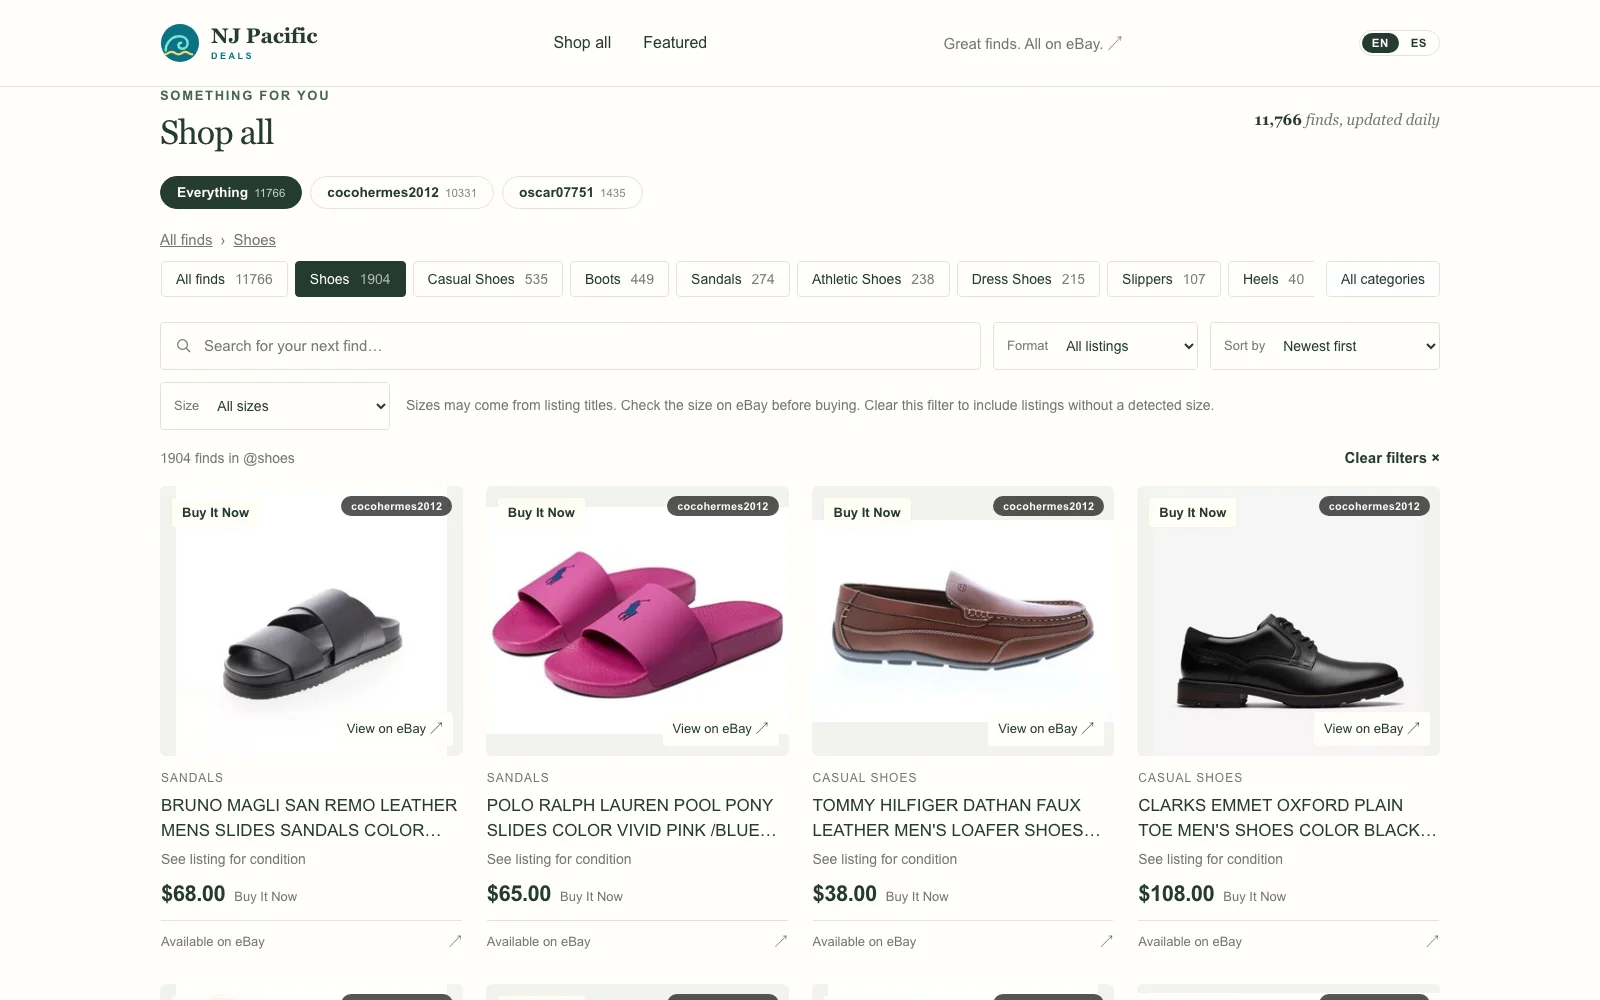
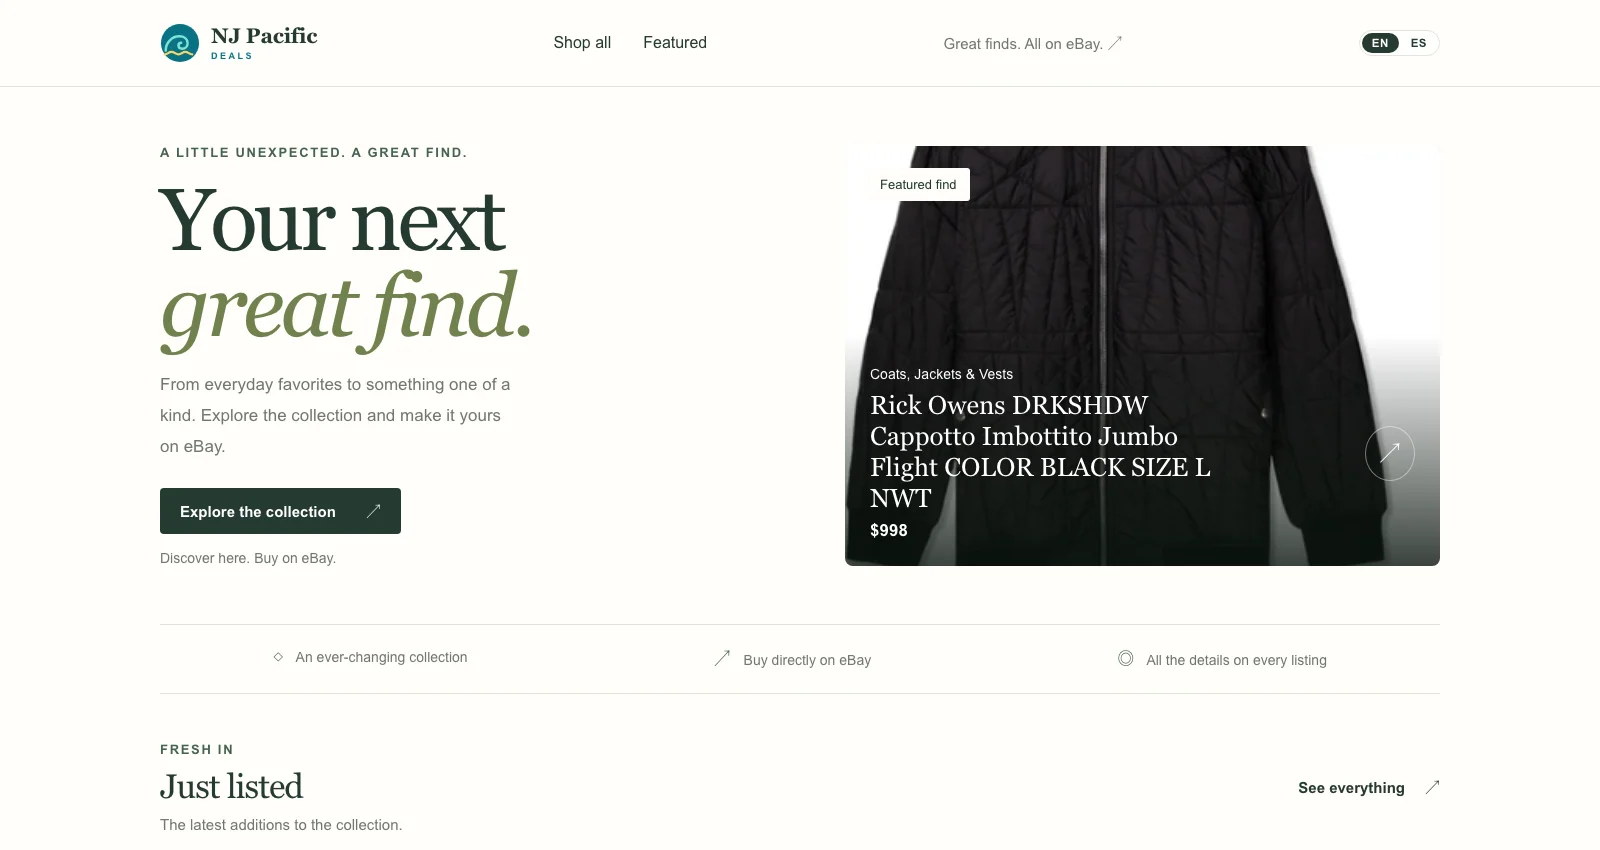
Use the storefront home page for the NJ Pacific Deals card
The catalog screenshot needed a category filter to read well, and its
listing titles were illegible at card size. The home page carries the
brand and the featured find in type large enough to survive the card,
so it says more with less explaining.

Image is 1600x850 rather than 1600x1000: the viewport was cut above the
product row so the capture ends on the Just listed heading. Alt text and
the width/height attributes follow the new capture.

Verified at 1440px, 834px and 390px: no horizontal overflow, image
loads, anchors resolve, disclosure opens, no console errors.

diff --git a/index.html b/index.html
@@ -266,11 +266,11 @@
           <div class="project-art storefront-art">
             <img
               src="./assets/img/websites/nj-pacific-deals.webp"
-              alt="NJ Pacific Deals shop screen filtered to Shoes, showing seller tabs, category and size filters, search, sort controls, and a grid of listings with prices and links out to eBay."
+              alt="NJ Pacific Deals home page: the headline &quot;Your next great find.&quot; with an Explore the collection button, beside a featured find card showing a Rick Owens coat listed at $998, above the start of the Just listed section."
               loading="lazy"
               decoding="async"
               width="1600"
-              height="1000"
+              height="850"
             />
           </div>
           <div class="project-body">

diff --git a/SCREENSHOT_HANDOFF.md b/SCREENSHOT_HANDOFF.md
@@ -11,7 +11,7 @@ The portfolio remains a static HTML/CSS site hosted on GitHub Pages. No React mi
 | Workout Logger Universal | Done — real app screenshots     | `assets/img/websites/workout-logger.webp` |
 | NJ Pacific Deals (`storefront`) | Done — live-site screenshot | `assets/img/websites/nj-pacific-deals.webp` |
 
-The Mastadon, Stock Lab, and Workout Logger Universal screenshots come from the applications actually running against seeded demo data. Workout Logger Universal is a composed side-by-side: the iOS (SwiftUI) session screen captured in the iOS Simulator and the Android (Jetpack Compose) home screen captured on an emulator, both from the app's own DEBUG sample workouts, laid out on the card's mat colour at 1600x1200 so the card keeps the same row height as its neighbour. The NJ Pacific Deals screenshot is the deployed storefront at https://njpacificdeals.com/, captured at 1600x1000 with Playwright; its listings are real and public on eBay, and the shop view is filtered to Shoes so the grid reads well at card size. No credentials, account identifiers, customer details, or private financial information appear in any of them. The Stock Lab market history is synthetic demo data generated for the capture; the anomalies, detector output, and chart were produced by Stock Lab's own scanner from that data, not hand-drawn.
+The Mastadon, Stock Lab, and Workout Logger Universal screenshots come from the applications actually running against seeded demo data. Workout Logger Universal is a composed side-by-side: the iOS (SwiftUI) session screen captured in the iOS Simulator and the Android (Jetpack Compose) home screen captured on an emulator, both from the app's own DEBUG sample workouts, laid out on the card's mat colour at 1600x1200 so the card keeps the same row height as its neighbour. The NJ Pacific Deals screenshot is the deployed storefront at https://njpacificdeals.com/, captured at 1600x850 with Playwright; it is the home page, and the featured listing it shows is real and public on eBay. The viewport height was chosen so the capture ends above the product row, keeping the card to the brand and the featured find. No credentials, account identifiers, customer details, or private financial information appear in any of them. The Stock Lab market history is synthetic demo data generated for the capture; the anomalies, detector output, and chart were produced by Stock Lab's own scanner from that data, not hand-drawn.
 
 ## Note for whoever reseeds Mastadon
 

diff --git a/README.md b/README.md
@@ -16,7 +16,7 @@ No dependency installation or build step is required.
 - `assets/img/websites/`: project screenshots used by the featured work cards.
 - `robots.txt`, `sitemap.xml`, `favicon.ico`: search and browser metadata.
 
-Mastadon, Stock Lab, and Workout Logger Universal use real screenshots captured from the running applications against seeded demo data — no customer, account, or live market data appears in them. The Workout Logger Universal card is a composed side-by-side of the two native apps: the iOS (SwiftUI) build in the iOS Simulator and the Android (Jetpack Compose) build in an Android emulator, both running the app's own seeded sample workouts. NJ Pacific Deals is captured from the deployed site at https://njpacificdeals.com/ rather than from seeded data, so it shows real public eBay listings; the shop view is filtered to a category so the grid stays representative. It is the one featured project with a public link. The remaining projects are private repositories and intentionally have no source/demo buttons. Add verified public links when available.
+Mastadon, Stock Lab, and Workout Logger Universal use real screenshots captured from the running applications against seeded demo data — no customer, account, or live market data appears in them. The Workout Logger Universal card is a composed side-by-side of the two native apps: the iOS (SwiftUI) build in the iOS Simulator and the Android (Jetpack Compose) build in an Android emulator, both running the app's own seeded sample workouts. NJ Pacific Deals is captured from the deployed site at https://njpacificdeals.com/ rather than from seeded data, so the featured listing it shows is a real public eBay listing. It is the one featured project with a public link. The remaining projects are private repositories and intentionally have no source/demo buttons. Add verified public links when available.
 
 ## Hosting
 
